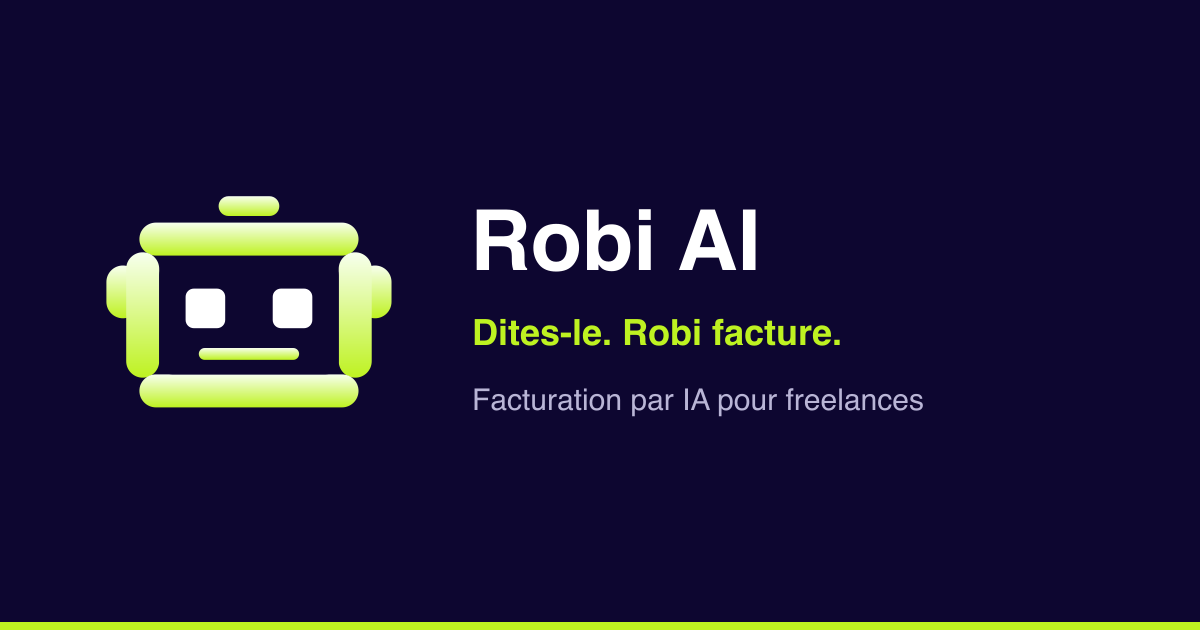
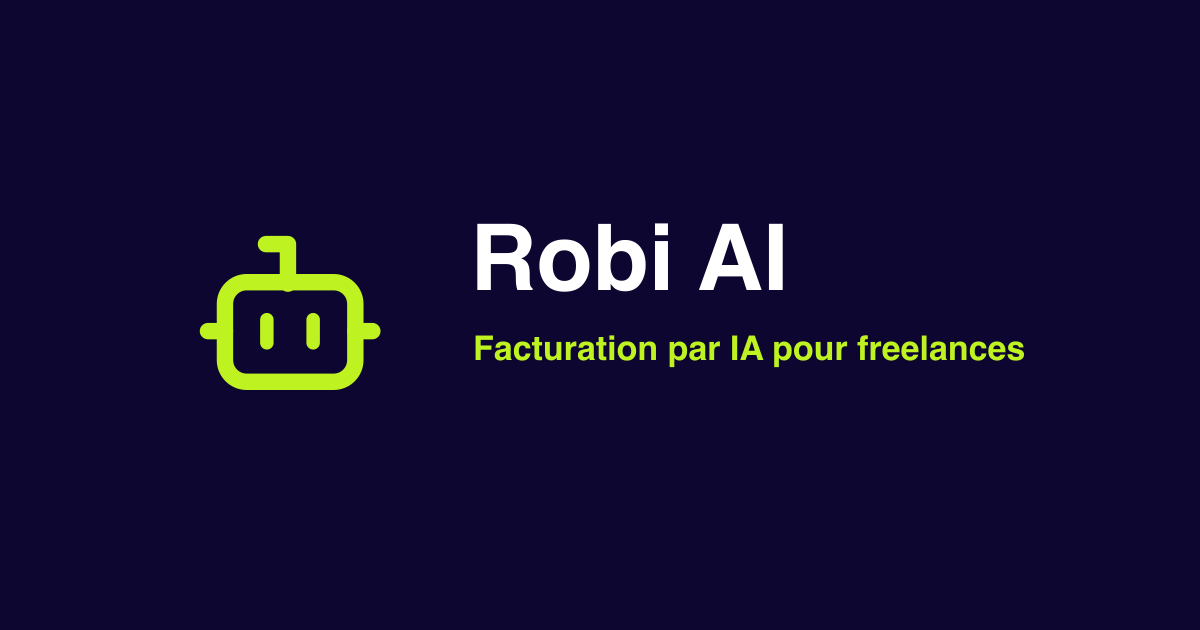
brand: utiliser l'icône officielle Robi partout
Remplace l'ancien robot glossy (dégradé) par l'icône officielle (robot
lime en trait sur fond navy arrondi) sur tous les assets : favicon
(svg/png/ico), apple-icon, logo, OG image, icône du header.

diff --git a/src/components/layouts/Header.tsx b/src/components/layouts/Header.tsx
@@ -2,7 +2,7 @@
 
 import { useState } from "react";
 import Link from "next/link";
-import { Bot, Menu, X } from "lucide-react";
+import { Menu, X } from "lucide-react";
 import { Button } from "@/components/ui/Button";
 import { LanguageSwitcher } from "@/components/ui/LanguageSwitcher";
 import { Locale } from "@/lib/i18n/config";
@@ -30,7 +30,8 @@ export function Header({ locale, dict }: HeaderProps) {
           {/* Left — Logo */}
           <Link href={`/${locale}`} className="flex items-center gap-2 flex-shrink-0">
             <div className="bg-white/10 backdrop-blur-xl border border-white/20 px-4 py-1.5 rounded-full flex items-center gap-2">
-              <Bot className="w-5 h-5 text-[#BEF221]" />
+              {/* eslint-disable-next-line @next/next/no-img-element */}
+              <img src="/robot-mark.svg" alt="" className="w-5 h-5" />
               <span className="text-base font-bold text-white">
                 Robi <span className="text-[#BEF221]">AI</span>
               </span>
